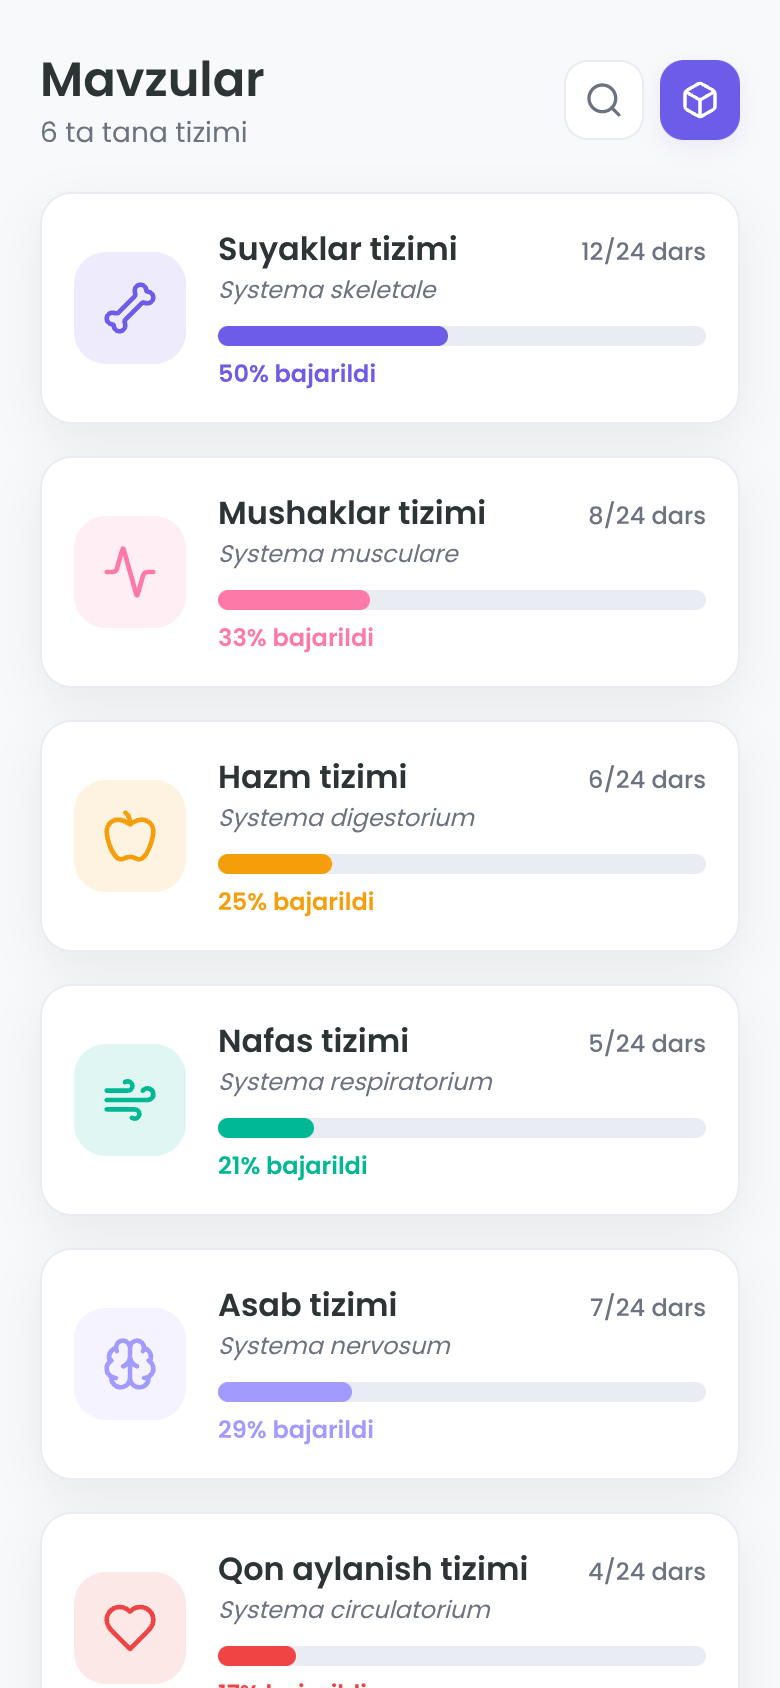
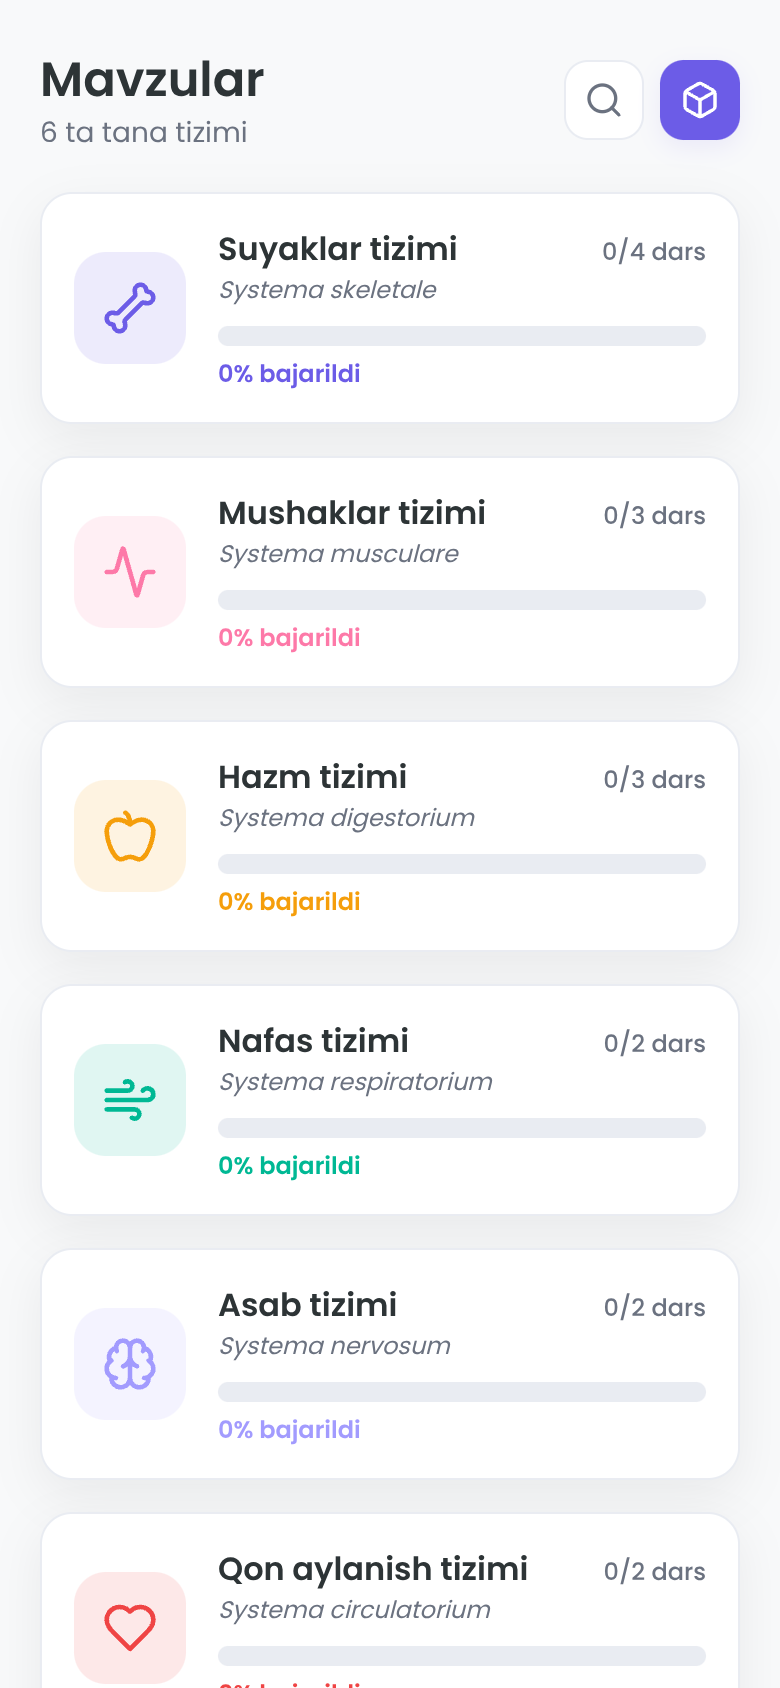
Demo progress raqamlari olib tashlandi — hammasi real hisoblanadi
- Mavzular: 0/N dars, % real progress (completedLessons asosida)
- Dashboard: 'Dars X/N' real, demo '24 dars' yo'q
- Progress: XP grafigi (kunlik tarix store'da), donut, statuslar, aniqlik — hammasi real
- store: xpHistory (kunlik XP tarixi) qo'shildi
- Yangi foydalanuvchi hamma joyda NOLdan boshlaydi

diff --git a/corpus/src/screens/ProgressScreen.tsx b/corpus/src/screens/ProgressScreen.tsx
@@ -7,26 +7,49 @@ import { Card } from "@/components/ui/Card";
 import { Segmented } from "@/components/ui/Segmented";
 import { Sparkline } from "@/components/ui/Sparkline";
 import { Donut } from "@/components/ui/Donut";
+import { useAppStore } from "@/store/useAppStore";
+import { SYSTEMS, systemStatus } from "@/data/anatomy";
 import { useStrings, fmt } from "@/i18n";
 
 type Range = "week" | "month" | "year";
-
-const DATA: Record<Range, number[]> = {
-  week: [10, 18, 6, 24, 16, 30, 16],
-  month: [20, 30, 24, 46, 38, 55, 42, 60, 50, 70, 58, 40],
-  year: [60, 80, 70, 120, 140, 110, 160, 190, 170, 210, 200, 120],
-};
 
 export function ProgressScreen() {
   const [range, setRange] = useState<Range>("week");
   const t = useStrings();
 
-  const categories = [
-    { label: t.completed, value: 15, color: "#6C5CE7" },
-    { label: t.inProgress, value: 6, color: "#F59E0B" },
-    { label: t.notStarted, value: 3, color: "#94A3B8" },
-  ];
+  const completedLessons = useAppStore((s) => s.completedLessons);
+  const completedTopics = useAppStore((s) => s.completedTopics);
+  const correct = useAppStore((s) => s.correct);
+  const total = useAppStore((s) => s.total);
+  const xpHistory = useAppStore((s) => s.xpHistory);
+
+  // ---- real kunlik XP tarixi (store'dan) ----
+  function series(count: number): number[] {
+    const out: number[] = [];
+    for (let i = count - 1; i >= 0; i--) {
+      const d = new Date();
+      d.setDate(d.getDate() - i);
+      out.push(xpHistory[d.toISOString().slice(0, 10)] ?? 0);
+    }
+    return out;
+  }
+  const data = range === "week" ? series(7) : range === "month" ? series(30) : series(12);
+  const earned = data.reduce((a, b) => a + b, 0);
   const rangeText = range === "week" ? t.rangeWeek : range === "month" ? t.rangeMonth : t.rangeYear;
+
+  // ---- real tizim progressi ----
+  const statusCount = { completed: 0, progress: 0, new: 0 };
+  for (const sys of SYSTEMS) {
+    statusCount[systemStatus(sys, completedLessons)]++;
+  }
+  const topicsPct = SYSTEMS.length ? Math.round((completedTopics.length / SYSTEMS.length) * 100) : 0;
+  const accuracy = total > 0 ? Math.round((correct / total) * 100) : 0;
+
+  const categories = [
+    { label: t.completed, value: statusCount.completed, color: "#6C5CE7" },
+    { label: t.inProgress, value: statusCount.progress, color: "#F59E0B" },
+    { label: t.notStarted, value: statusCount.new, color: "#94A3B8" },
+  ];
 
   return (
     <Screen padded={false}>
@@ -44,25 +67,25 @@ export function ProgressScreen() {
           />
         </div>
 
-        {/* XP chart */}
+        {/* XP chart — real */}
         <Card className="mt-5 p-4">
           <div className="flex items-baseline justify-between">
             <div>
               <p className="text-xs font-semibold uppercase tracking-wider text-muted">{t.xpEarnedChart}</p>
-              <p className="mt-1 text-2xl font-bold text-primary">+120 XP</p>
+              <p className="mt-1 text-2xl font-bold text-primary">+{earned} XP</p>
             </div>
             <span className="text-xs text-muted">{fmt(t.vsPrev, { range: rangeText })}</span>
           </div>
           <div className="mt-3">
-            <Sparkline data={DATA[range]} color="#6C5CE7" />
+            <Sparkline data={data} color="#6C5CE7" />
           </div>
         </Card>
 
-        {/* topics donut */}
+        {/* topics donut — real */}
         <Card className="mt-4 flex items-center gap-5 p-4">
-          <Donut value={65} size={120} stroke={13}>
+          <Donut value={topicsPct} size={120} stroke={13}>
             <div className="text-center">
-              <p className="text-2xl font-bold">65%</p>
+              <p className="text-2xl font-bold">{topicsPct}%</p>
               <p className="text-[10px] text-muted">{t.topics}</p>
             </div>
           </Donut>
@@ -77,16 +100,51 @@ export function ProgressScreen() {
           </div>
         </Card>
 
-        {/* summary */}
+        {/* summary — real */}
         <div className="mt-4 grid grid-cols-3 gap-3">
-          {categories.map((c) => (
-            <Card key={c.label} className="flex flex-col items-center gap-1 p-4">
-              <p className="text-xl font-bold" style={{ color: c.color }}>
-                {c.value}
-              </p>
-              <p className="text-center text-xs text-muted">{c.label}</p>
-            </Card>
-          ))}
+          <Card className="flex flex-col items-center gap-1 p-4">
+            <p className="text-xl font-bold" style={{ color: "#6C5CE7" }}>
+              {completedLessons.length}
+            </p>
+            <p className="text-center text-xs text-muted">{t.lessonsDone}</p>
+          </Card>
+          <Card className="flex flex-col items-center gap-1 p-4">
+            <p className="text-xl font-bold" style={{ color: "#00B894" }}>
+              {accuracy}%
+            </p>
+            <p className="text-center text-xs text-muted">{t.accuracy}</p>
+          </Card>
+          <Card className="flex flex-col items-center gap-1 p-4">
+            <p className="text-xl font-bold" style={{ color: "#F59E0B" }}>
+              {completedTopics.length}/{SYSTEMS.length}
+            </p>
+            <p className="text-center text-xs text-muted">{t.topics}</p>
+          </Card>
+        </div>
+
+        {/* system-by-system progress — real */}
+        <h2 className="mt-6 text-base font-semibold">{t.continueLearning}</h2>
+        <div className="mt-3 flex flex-col gap-3">
+          {SYSTEMS.map((sys) => {
+            const done = sys.lessons.filter((l) => completedLessons.includes(l.id)).length;
+            const pct = sys.lessons.length ? Math.round((done / sys.lessons.length) * 100) : 0;
+            return (
+              <div key={sys.id}>
+                <div className="flex justify-between text-xs font-medium text-muted">
+                  <span>{sys.name}</span>
+                  <span className="font-semibold text-ink">
+                    {done}/{sys.lessons.length}
+                  </span>
+                </div>
+                <div className="mt-1.5 h-2 overflow-hidden rounded-full bg-line">
+                  <div
+                    className="h-full rounded-full transition-all duration-500"
+                    style={{ width: `${pct}%`, background: sys.color }}
+                  />
+                </div>
+              </div>
+            );
+          })}
         </div>
       </div>
     </Screen>

diff --git a/corpus/src/data/anatomy.ts b/corpus/src/data/anatomy.ts
@@ -19,9 +19,20 @@ export interface BodySystem {
   icon: string; // lucide icon name
   color: string;
   image: string;
-  completed: number;
-  total: number;
   lessons: Lesson[];
+}
+
+/** Real progressni hisoblash — demo raqamlar YO'Q. */
+export function systemProgress(sys: BodySystem, completedLessons: string[]) {
+  const done = sys.lessons.filter((l) => completedLessons.includes(l.id)).length;
+  return { done, total: sys.lessons.length, pct: sys.lessons.length ? Math.round((done / sys.lessons.length) * 100) : 0 };
+}
+
+export function systemStatus(sys: BodySystem, completedLessons: string[]): "completed" | "progress" | "new" {
+  const done = sys.lessons.filter((l) => completedLessons.includes(l.id)).length;
+  if (done === 0) return "new";
+  if (done >= sys.lessons.length) return "completed";
+  return "progress";
 }
 
 export interface AtlasObject {
@@ -54,8 +65,6 @@ export const SYSTEMS: BodySystem[] = [
     icon: "bone",
     color: "#6C5CE7",
     image: "/img/skeleton.jpg",
-    completed: 12,
-    total: 24,
     lessons: [
       { id: "sk-1", title: "Suyaklar haqida kirish", description: "Suyak turlari va tasnifi", xp: 20, minutes: 6 },
       { id: "sk-2", title: "Bosh suyagi", description: "Miya va yuz suyaklari", xp: 25, minutes: 8 },
@@ -71,8 +80,6 @@ export const SYSTEMS: BodySystem[] = [
     icon: "activity",
     color: "#FD79A8",
     image: "/img/muscles.jpg",
-    completed: 8,
-    total: 24,
     lessons: [
       { id: "mu-1", title: "Mushak turlari", description: "Skelet, yurak va silliq mushaklar", xp: 20, minutes: 6 },
       { id: "mu-2", title: "Asosiy mushak guruhlari", description: "Delta mushakdan to'rt boshli songacha", xp: 25, minutes: 8 },
@@ -87,8 +94,6 @@ export const SYSTEMS: BodySystem[] = [
     icon: "apple",
     color: "#F59E0B",
     image: "/img/stomach.jpg",
-    completed: 6,
-    total: 24,
     lessons: [
       { id: "di-1", title: "Hazm yo'li", description: "Og'izdan yo'g'on ichakkacha", xp: 20, minutes: 7 },
       { id: "di-2", title: "Oshqozon va jigar", description: "Kimyoviy hazm jarayoni", xp: 25, minutes: 8 },
@@ -103,8 +108,6 @@ export const SYSTEMS: BodySystem[] = [
     icon: "wind",
     color: "#00B894",
     image: "/img/lungs.jpg",
-    completed: 5,
-    total: 24,
     lessons: [
       { id: "re-1", title: "Nafas yo'llari", description: "Kekirdak, bronxlar va o'pka", xp: 20, minutes: 6 },
       { id: "re-2", title: "Gaz almashinuvi", description: "Alveolalar va kislorod", xp: 25, minutes: 8 },
@@ -118,8 +121,6 @@ export const SYSTEMS: BodySystem[] = [
     icon: "brain",
     color: "#A29BFE",
     image: "/img/brain.jpg",
-    completed: 7,
-    total: 24,
     lessons: [
       { id: "ne-1", title: "Bosh miya", description: "Katta yarim pallalar, miyacha, so'g'on", xp: 25, minutes: 9 },
       { id: "ne-2", title: "Neyronlar va sinapslar", description: "Signallar qanday uzatiladi", xp: 25, minutes: 9 },
@@ -133,8 +134,6 @@ export const SYSTEMS: BodySystem[] = [
     icon: "heart",
     color: "#EF4444",
     image: "/img/heart.jpg",
-    completed: 4,
-    total: 24,
     lessons: [
       { id: "ci-1", title: "Yurak", description: "Kameralar va klapanlar", xp: 25, minutes: 9 },
       { id: "ci-2", title: "Qon tomirlari", description: "Arteriyalar, venalar, kapillarlar", xp: 20, minutes: 7 },

diff --git a/corpus/src/screens/TopicsScreen.tsx b/corpus/src/screens/TopicsScreen.tsx
@@ -6,11 +6,12 @@ import { Card } from "@/components/ui/Card";
 import { ProgressBar } from "@/components/ui/ProgressBar";
 import { Icon } from "@/components/ui/Icon";
 import { useAppStore } from "@/store/useAppStore";
-import { SYSTEMS } from "@/data/anatomy";
+import { SYSTEMS, systemProgress } from "@/data/anatomy";
 import { useStrings, fmt } from "@/i18n";
 
 export function TopicsScreen() {
   const navigate = useAppStore((s) => s.navigate);
+  const completedLessons = useAppStore((s) => s.completedLessons);
   const t = useStrings();
 
   return (
@@ -38,10 +39,10 @@ export function TopicsScreen() {
         </div>
       </header>
 
-      {/* categories */}
+      {/* categories — real progress (yangi foydalanuvchi uchun 0/N) */}
       <div className="mt-5 flex flex-col gap-4">
         {SYSTEMS.map((sys) => {
-          const pct = Math.round((sys.completed / sys.total) * 100);
+          const { done, total, pct } = systemProgress(sys, completedLessons);
           return (
             <Card key={sys.id} onClick={() => navigate("lesson")}>
               <div className="flex items-center gap-4 p-4">
@@ -55,7 +56,7 @@ export function TopicsScreen() {
                   <div className="flex items-baseline justify-between gap-2">
                     <p className="truncate text-base font-semibold">{sys.name}</p>
                     <span className="shrink-0 text-xs font-medium text-muted">
-                      {fmt("{n}/{total} {lessons}", { n: sys.completed, total: sys.total, lessons: t.lessons })}
+                      {fmt("{n}/{total} {lessons}", { n: done, total, lessons: t.lessons })}
                     </span>
                   </div>
                   <p className="text-xs italic text-muted">{sys.latin}</p>

diff --git a/corpus/src/screens/DashboardScreen.tsx b/corpus/src/screens/DashboardScreen.tsx
@@ -26,7 +26,7 @@ export function DashboardScreen() {
   const dailyXp = useAppStore((s) => s.dailyXp);
   const dailyGoal = useAppStore((s) => s.dailyGoal);
   const streak = useAppStore((s) => s.streak);
-  const completedLessons = useAppStore((s) => s.completedLessons.length);
+  const completedLessons = useAppStore((s) => s.completedLessons);
   const currentUser = useAppStore((s) => s.currentUser);
   const navigate = useAppStore((s) => s.navigate);
   const setTab = useAppStore((s) => s.setTab);
@@ -35,7 +35,9 @@ export function DashboardScreen() {
   const level = levelFromXp(xp);
   const tier = t[TIER_KEY[levelTier(level)]];
   const goalPct = Math.min(100, Math.round((dailyXp / dailyGoal) * 100));
-  const nextLesson = SYSTEMS[0].lessons[completedLessons % SYSTEMS[0].lessons.length];
+  const firstSystem = SYSTEMS[0];
+  const doneInFirst = firstSystem.lessons.filter((l) => completedLessons.includes(l.id)).length;
+  const nextLesson = firstSystem.lessons.find((l) => !completedLessons.includes(l.id)) ?? firstSystem.lessons[0];
   const name = currentUser ?? t.name;
 
   return (
@@ -124,7 +126,7 @@ export function DashboardScreen() {
           </div>
           <div className="p-4">
             <div className="flex items-center justify-between text-xs text-muted">
-              <span>{fmt(t.lessonOf, { n: completedLessons + 1, total: SYSTEMS[0].total })}</span>
+              <span>{fmt(t.lessonOf, { n: doneInFirst + 1, total: firstSystem.lessons.length })}</span>
               <span className="flex items-center gap-1">
                 <Zap className="h-3.5 w-3.5" aria-hidden /> ~{nextLesson.minutes} {t.min}
               </span>

diff --git a/corpus/src/store/useAppStore.ts b/corpus/src/store/useAppStore.ts
@@ -57,6 +57,7 @@ const freshProgress = {
   completedTopics: [] as string[],
   achievements: [] as string[],
   lastResult: null as LessonResult | null,
+  xpHistory: {} as Record<string, number>, // "YYYY-MM-DD" -> XP
   settings: {
     darkMode: false,
     sound: true,
@@ -93,6 +94,7 @@ interface AppState {
   completedTopics: string[];
   achievements: string[];
   lastResult: LessonResult | null;
+  xpHistory: Record<string, number>;
 
   // settings
   settings: Settings;
@@ -237,6 +239,7 @@ export const useAppStore = create<AppState>()(
         const newly = evaluateAchievements(snapshot, s.achievements);
 
         const result: LessonResult = { lessonId, score, total: totalQ, earned };
+        const today = new Date().toISOString().slice(0, 10);
 
         set({
           xp: s.xp + earned,
@@ -247,6 +250,7 @@ export const useAppStore = create<AppState>()(
           completedTopics,
           achievements: [...s.achievements, ...newly],
           lastResult: result,
+          xpHistory: { ...s.xpHistory, [today]: (s.xpHistory[today] ?? 0) + earned },
         });
         return result;
       },
@@ -273,6 +277,7 @@ export const useAppStore = create<AppState>()(
         completedLessons: s.completedLessons,
         completedTopics: s.completedTopics,
         achievements: s.achievements,
+        xpHistory: s.xpHistory,
         settings: s.settings,
       }),
     },
